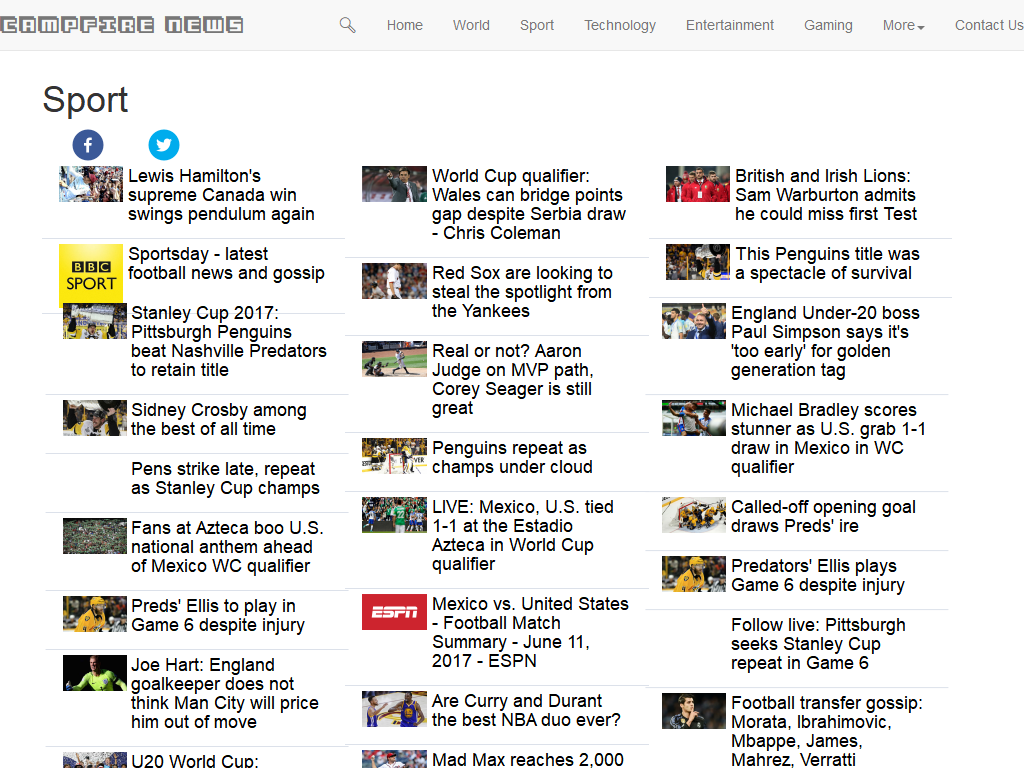
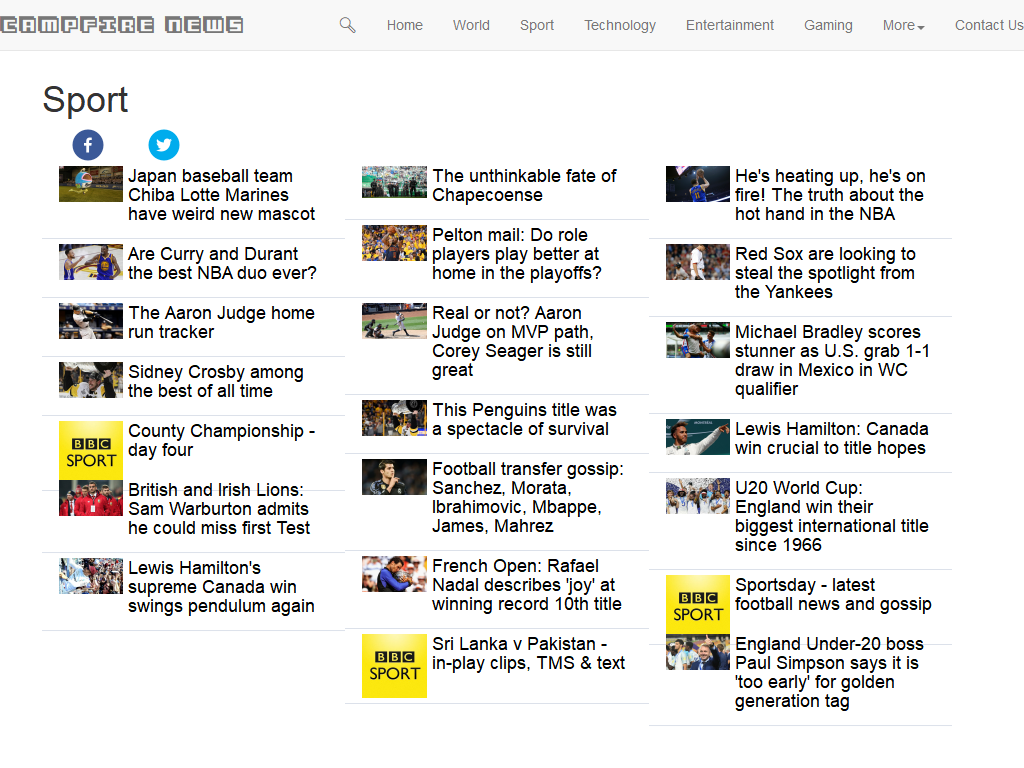
search highlight news

Changed region(s): [[0.3438, 0.2188, 0.9062, 1.0], [0.0312, 0.2188, 0.3125, 1.0]]

diff --git a/server.js b/server.js
@@ -48,9 +48,14 @@ app.get('/api/v1/news', (req, res) => (
 app.get('/api/v1/search/:keyword',function(req,res){
   const lowercase = req.params.keyword.toLowerCase()  ;
   const keyword1 = "%"+lowercase+"%";
-  var toreturn =[];
-  var query = client.query('SELECT * FROM NEWSNOW WHERE lower(title) like $1 ORDER BY id DESC limit 25',[keyword1]);
-  query.on('err',function(err){
+  var toreturn =[]; var query ;
+  var today = new Date() ;
+  if(keyword === "highlight"){
+    query = client.query('SELECT * FROM NEWSNOW WHERE highlight = true AND insertDate = $1 ',[today]);
+  }else {
+    query = client.query('SELECT * FROM NEWSNOW WHERE lower(title) like $1 ORDER BY id DESC limit 25',[keyword1]);
+  }
+    query.on('err',function(err){
     console.log("CAN NOT GET ANYTHING FROM NEWSNOW");
     res.status(404)
        .write('NOT FOUND');
@@ -69,24 +74,16 @@ app.get('/api/v1/search/:keyword',function(req,res){
     }
     res.end() ;
   });
-
 });
 
 app.post('/api/headlineUpdate', function(req,res){
   const id = req.body.id ;
   var error = 0 ;
   console.log("key" + Object.keys(req.body));
-/*
-  if (id < 2100){res.status(404).write('NOT FOUND');}
-  else {res.status(200).write('OK 2 '+ id);}
-  res.end()  ;
-*/
   var query = client.query('UPDATE newsnow SET highlight = true WHERE id =$1',[id]);
   query.on('err',function(err){
     error = -1 ;
     console.log("CAN NOT UPDATE highlight");
-
-
   });
   query.on('end', function(){
     if(error < 0){
